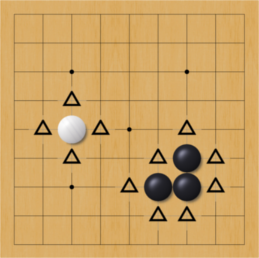
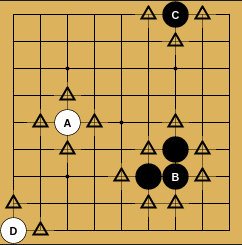
update regles go images
Former-commit-id: 0ab2a88b0b62a30ea674440a9298b9074aaae3a2

Changed region(s): [[0.0, 0.0, 1.0, 1.0]]

diff --git a/content/posts/20220223-les-regles-du-go.md b/content/posts/20220223-les-regles-du-go.md
@@ -2,6 +2,7 @@
 title: "Les Règles du Go"
 date: 2022-02-23T10:55:29-05:00
 toc: true
+featured: "true"
 tags:
   - français
   - go
@@ -19,8 +20,11 @@ rapidement commencer à jouer après les avoir lues. Voici donc les règles du G
 > 1. La partie commence avec un plateau vide. Noir joue d'abord. Les joueurs alternent en mettant une pierre de leur couleur sur les intersections (y compris celles des côtés et les coins). Un joueur peut passer son tour s'il le désire.
 > 1. Une pierre déposée sur le jeu ne peut jamais se déplacer.
 > 1. **Définition**: le concept de "liberté" au Go correspond aux lignes qui "émanent" d'une pièce ou d'un groupe.
->    Par exemple, dans l'image ci-dessous, la pierre blanche possède 4 libertés (identifiées par les
->    triangles). Le groupe de pierres noires possède 7 libertés.
+>    Par exemple, dans l'image ci-dessous:
+>     - la pierre A possède 4 libertés (identifiées par les triangles)
+>     - le groupe de pierres noires B possède 7 libertés
+>     - la pierre noire C possède 3 libertés
+>     - la pierre blanche D possède 2 libertés
 > {{< figure src="/img/go-liberties.png" position="center" caption="" >}}
 > 1. Il est possible de capturer un groupe adverse en l'entourant (i.e. mettre une pierre adverse sur toutes ses "libertés"). Un groupe capturé est retiré du jeu et contribuera plus tard aux points du joueur adverse.
 > 1. La partie se termine lorsque les deux joueurs passent leur tour de façon consécutive, ou qu'un des deux joueurs abandonne la partie.
